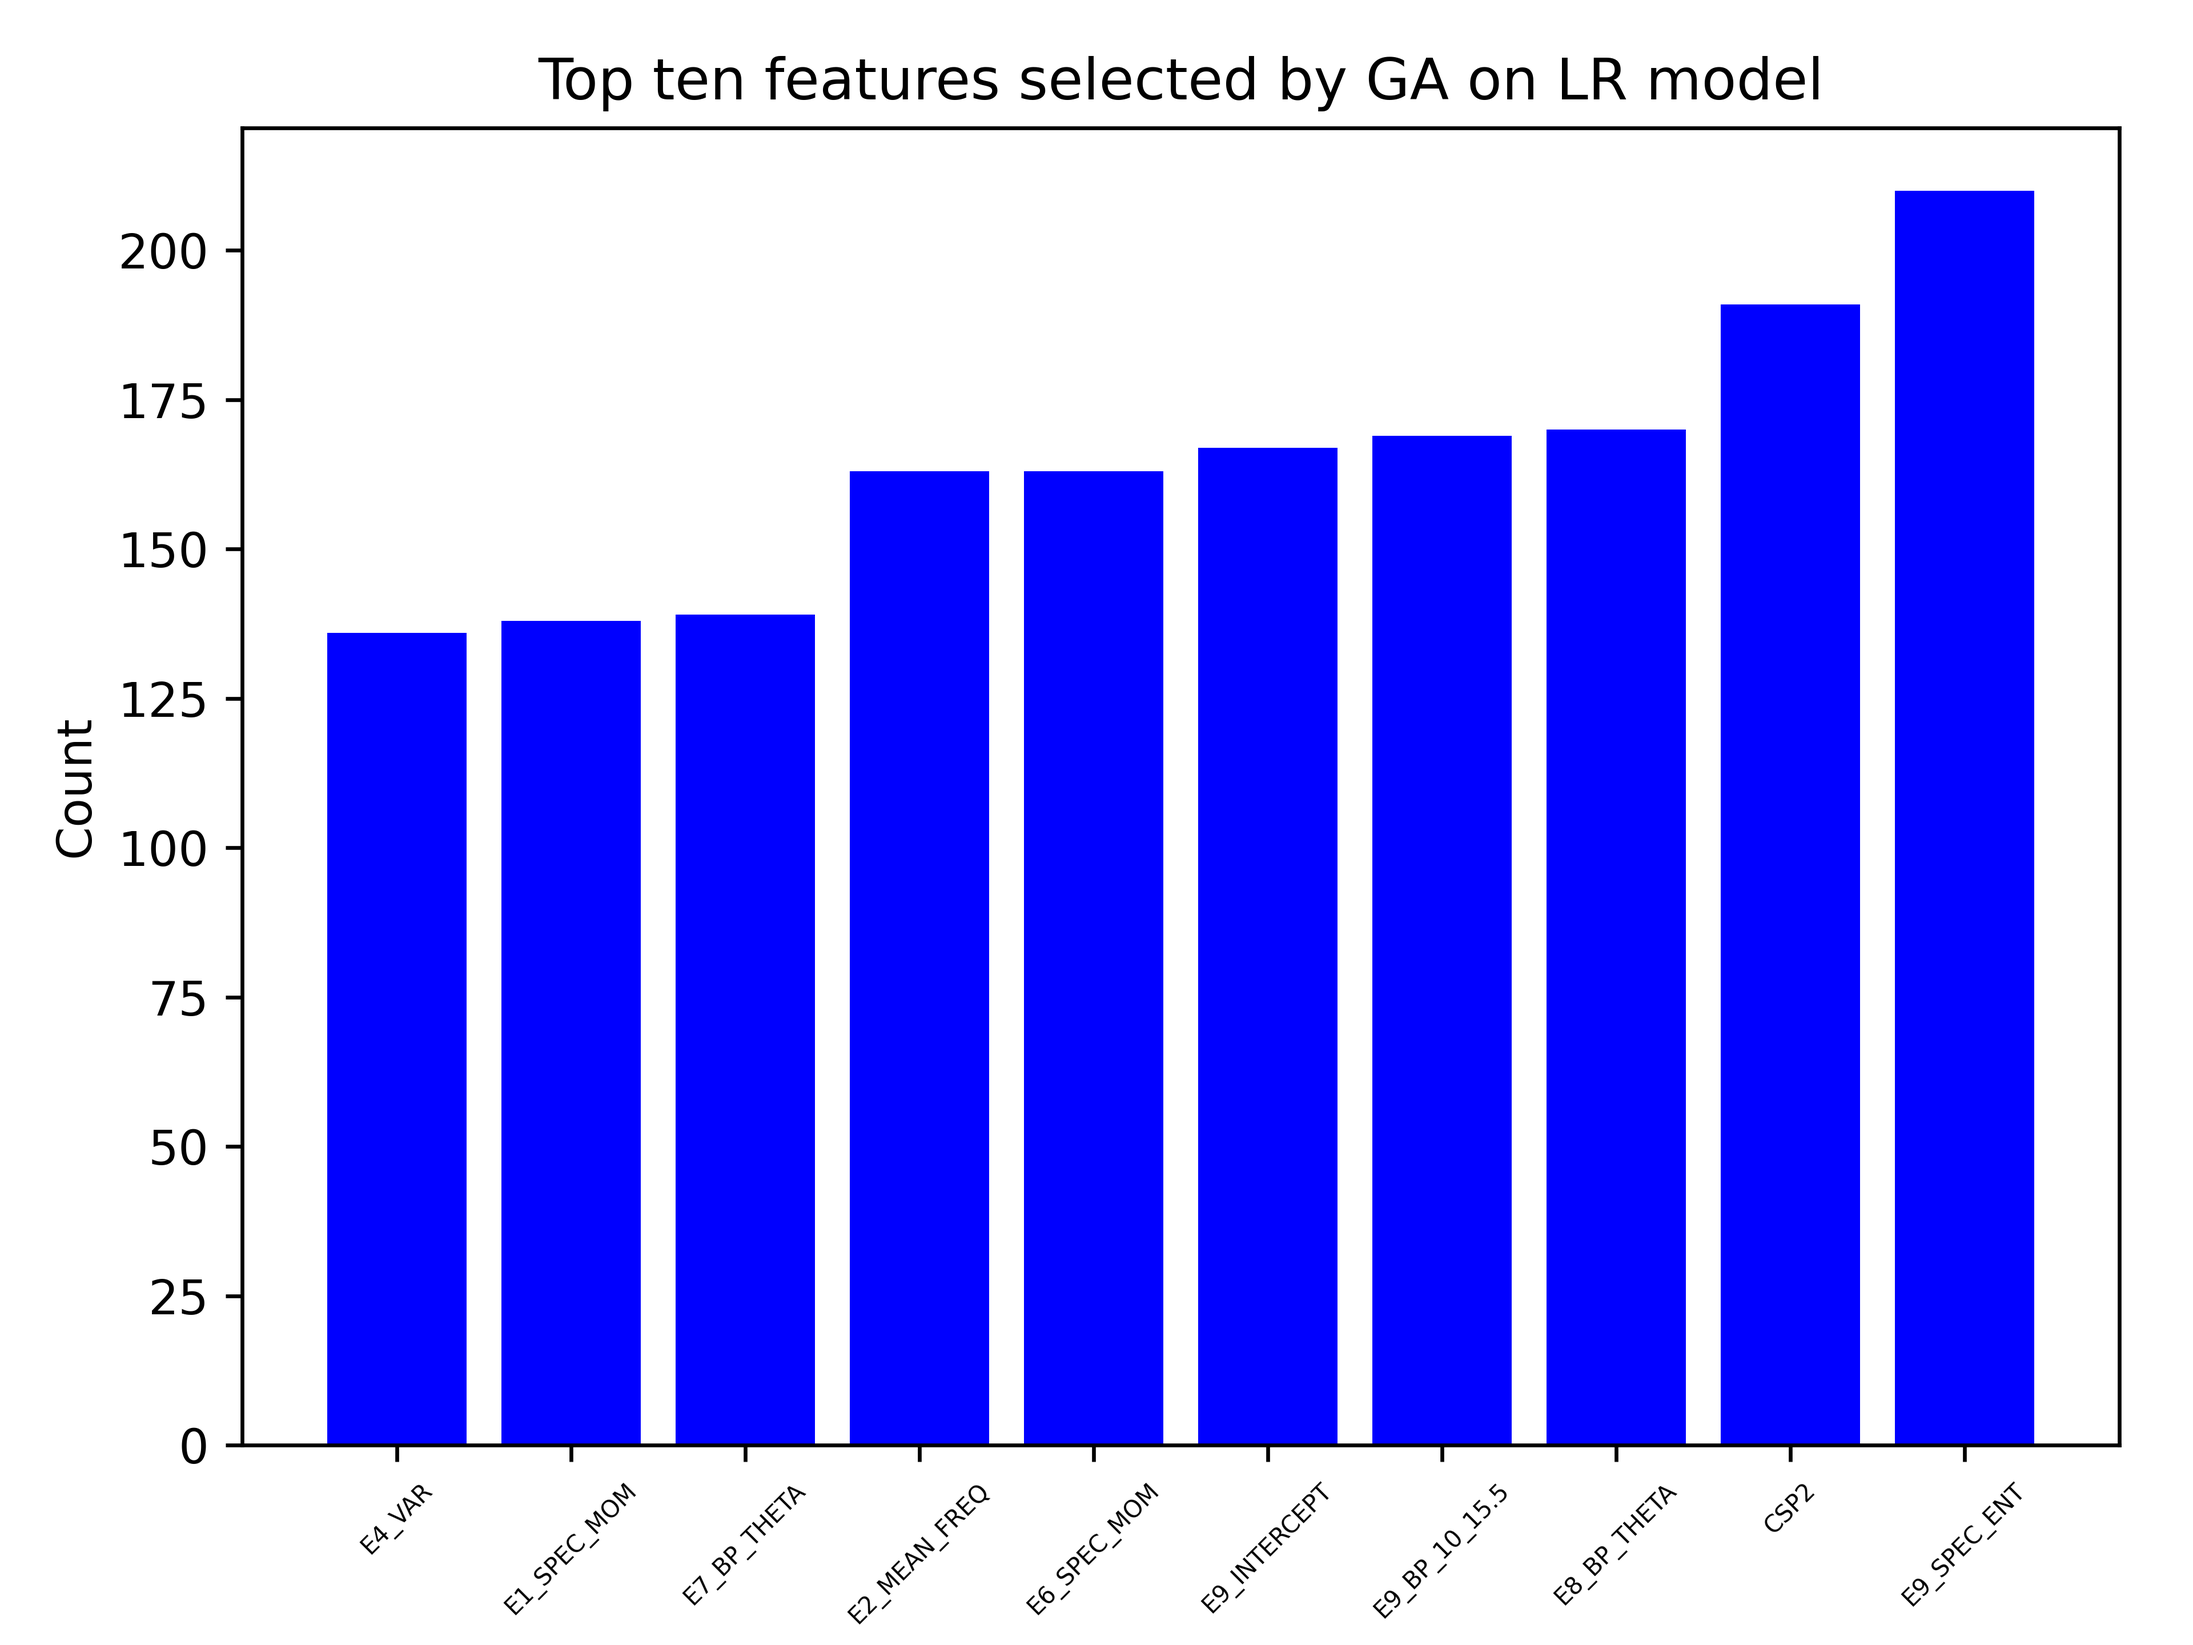
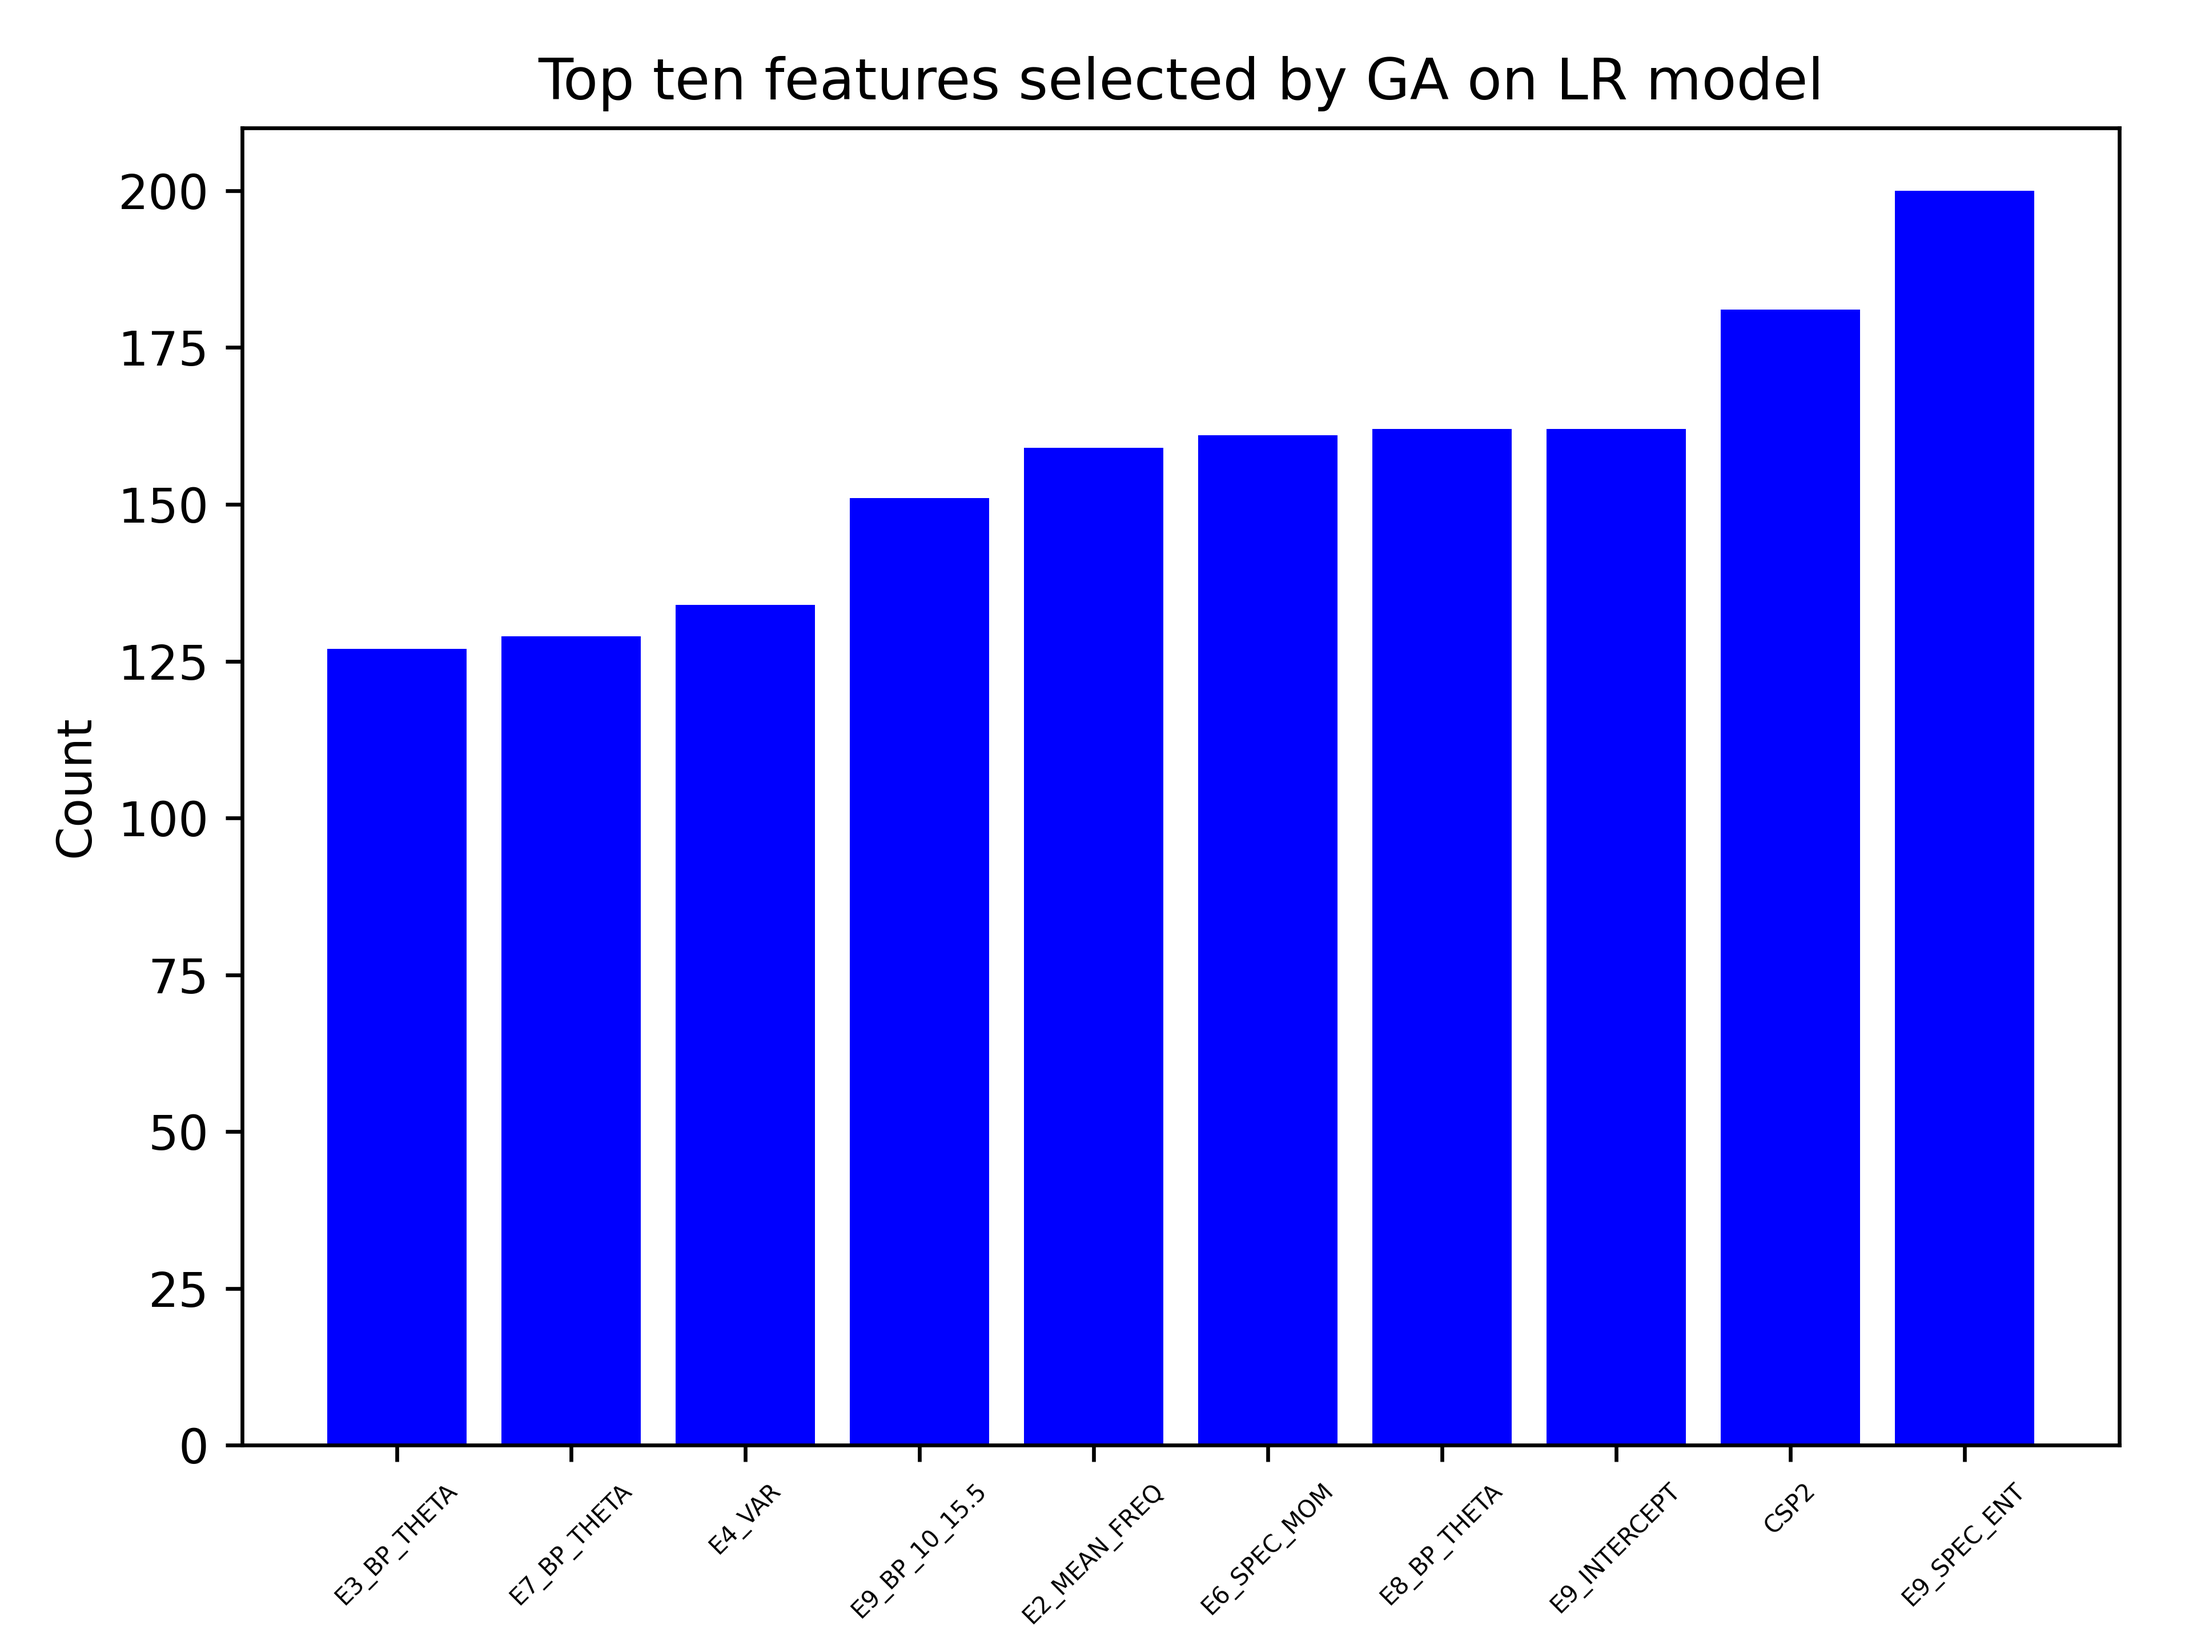
Offline eval added

diff --git a/ModelsParams.py b/ModelsParams.py
@@ -12,12 +12,12 @@ from sklearn.ensemble import AdaBoostClassifier as AB
 
 def build_models(our_features_indices=[], train_features_stats=[], test_features_stats=[], labels_train_stats=[], labels_test_stats=[]):
     models = [
-        {'name': 'LDA', 'model': LDA(), 'cv': True},
-        {'name': 'SVC', 'model': SVC(probability=True), 'cv': True},
-        {'name': 'NB', 'model': NB(), 'cv': True},
-        {'name': 'LR', 'model': LR(), 'cv': True}
-        # {'name': 'KNN5', 'model': KNN(5), 'cv': True},
-        # {'name': 'KNN7', 'model': KNN(7), 'cv': True},
+        {'name': 'LDA', 'model': LDA(), 'cv': True, 'thresh': 70},
+        {'name': 'SVC', 'model': SVC(probability=True), 'cv': True, 'thresh': 80},
+        {'name': 'NB', 'model': NB(), 'cv': True, 'thresh': 110},
+        {'name': 'LR', 'model': LR(), 'cv': True, 'thresh': 110},
+        {'name': 'KNN5', 'model': KNN(5), 'cv': True, 'thresh': 40},
+        {'name': 'KNN7', 'model': KNN(7), 'cv': True, 'thresh': 40},
         # {'name': 'SVC STA', 'model': SVC(probability=True), 'cv': True, 'indices': our_features_indices, 'ftr': train_features_stats, 'fte': test_features_stats, 'ltr': labels_train_stats, 'lte': labels_test_stats},
         # {'name': 'KNN-5 STA', 'model': KNN(5), 'cv': False, 'indices': our_features_indices, 'ftr': train_features_stats, 'fte': test_features_stats, 'ltr': labels_train_stats, 'lte': labels_test_stats},
         # {'name': 'KNN-7 STA', 'model': KNN(7), 'cv': False, 'indices': our_features_indices, 'ftr': train_features_stats, 'fte': test_features_stats, 'ltr': labels_train_stats, 'lte': labels_test_stats},

diff --git a/OfflineEval.py b/OfflineEval.py
@@ -1,0 +1,26 @@
+import OurUtils as Utils
+import numpy as np
+import ModelsUtils
+import ModelsParams
+from sklearn.model_selection import cross_validate
+from tabulate import tabulate
+from Parsers import parse_cmdl_online
+
+def run_offline_models(args_dict: dict):
+    features, labels, _, nca_indices = Utils.get_all_features(args_dict['offline'])
+    models = ModelsParams.build_models()
+    rows = []
+    for model in models:
+
+        rows.append([model['name'] + ' CV',  np.mean(cross_validate(model['model'], features[:, nca_indices], labels, scoring='accuracy')['test_score'])])
+
+        _, mask = ModelsUtils.reduce_ga_search_space(features, model.get('name'), model.get('thresh'))
+        rows.append([model['name'] + ' GA CV', np.mean(cross_validate(model['model'], features[:, mask], labels, scoring='accuracy')['test_score'])])
+
+    print('')
+    table_headers = ["Classifier", "Success Rate"]
+    print(tabulate(rows, headers=table_headers, tablefmt='grid'))
+
+if __name__ == "__main__":
+    args_dict = parse_cmdl_online()
+    run_offline_models(args_dict)

diff --git a/FinalResultsPlots.py b/FinalResultsPlots.py
@@ -15,7 +15,7 @@ import sys
 def plot_class_per_record_to_remove(thresh=f"thresh_0", knn_exist=True):
     file_name_1 = 'classifiers_scores.csv'
     file_name_2 = 'models_avg_scores.csv'
-    root_dir = os.path.join('class_scores') if knn_exist else os.path.join('class_scores_no_knn')
+    root_dir = os.path.join('class_scores_knn') if knn_exist else os.path.join('class_scores_no_knn')
 
     models_scores_per_blitz = {
         'LDA GA CV': [],
@@ -109,6 +109,7 @@ def plot_error_bar_per_model_cv(models_avg_per_blitz: dict, thresh=0, knn_exist=
     # Add labels and title
     plt.xlabel('Model')
     plt.ylabel('Success Rate (%)')
+    plt.ylim((56,70))
     plt.title(f'CV Success Rate vs Model for each feature selection method \n Averaged on {num_blitz} runs, GA threshold {thresh}')
 
     plt.grid(True)

diff --git a/ModelsUtils.py b/ModelsUtils.py
@@ -16,8 +16,8 @@ features_names_list = Utils.features_names_list
 headers = Utils.headers
 from_name_to_index = Utils.from_feature_name_to_index
 
-def reduce_ga_search_space(features: np.ndarray, model_name):
-    threshold = get_args_dict().get('threshold', 0)
+def reduce_ga_search_space(features: np.ndarray, model_name, thresh=None):
+    threshold = thresh if thresh else get_args_dict().get('threshold', 0)
     print("Wallak threshold is {}".format(threshold))
     hists_ga: dict = Utils.load_from_pickle(os.path.join('stats', 'ga_models_features_hists'))
     hist: dict = hists_ga.get(model_name)

diff --git a/OurGraphs.py b/OurGraphs.py
@@ -98,7 +98,7 @@ def show_hist_ga():
     for model, hist in all_hist.items():
         fig = plt.figure()
         ax = fig.add_subplot(1,1,1)
-        filtered_hist = {key: item for key, item in hist.items() if item >= 100}
+        filtered_hist = {key: item for key, item in hist.items() if item >= 50}
         sorted_filtered = {key: val for key, val in sorted(filtered_hist.items(), key=lambda ele: ele[1])}
         ax.bar(sorted_filtered.keys(), list(sorted_filtered.values()), color='b')
         print(f'{model}: {list(hist.values())}')
